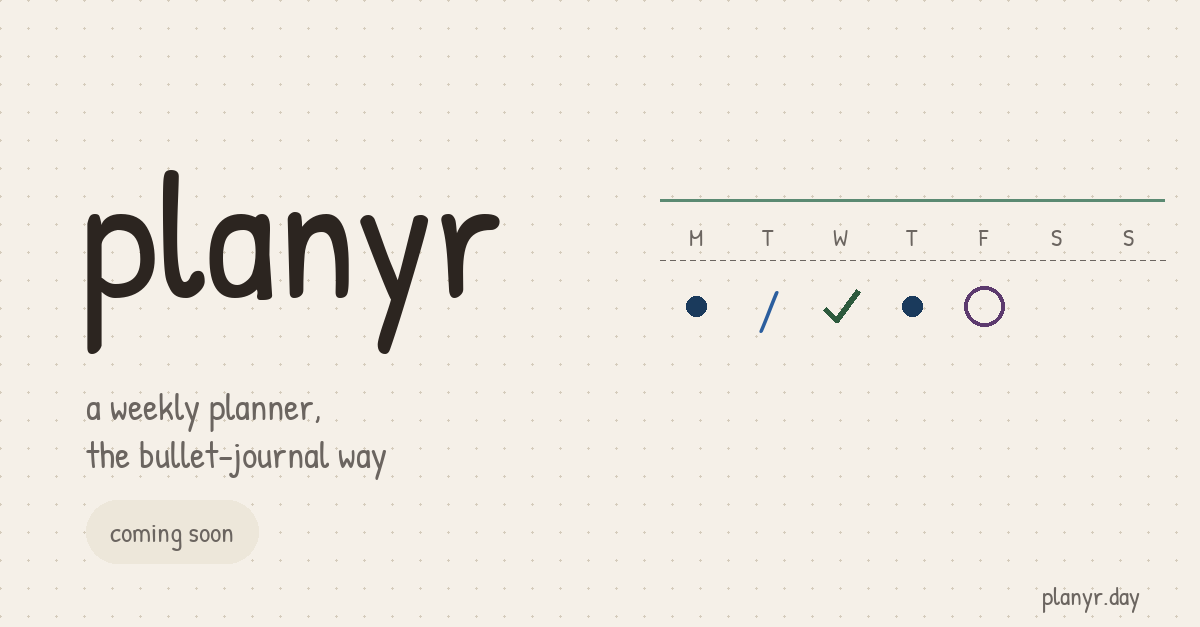
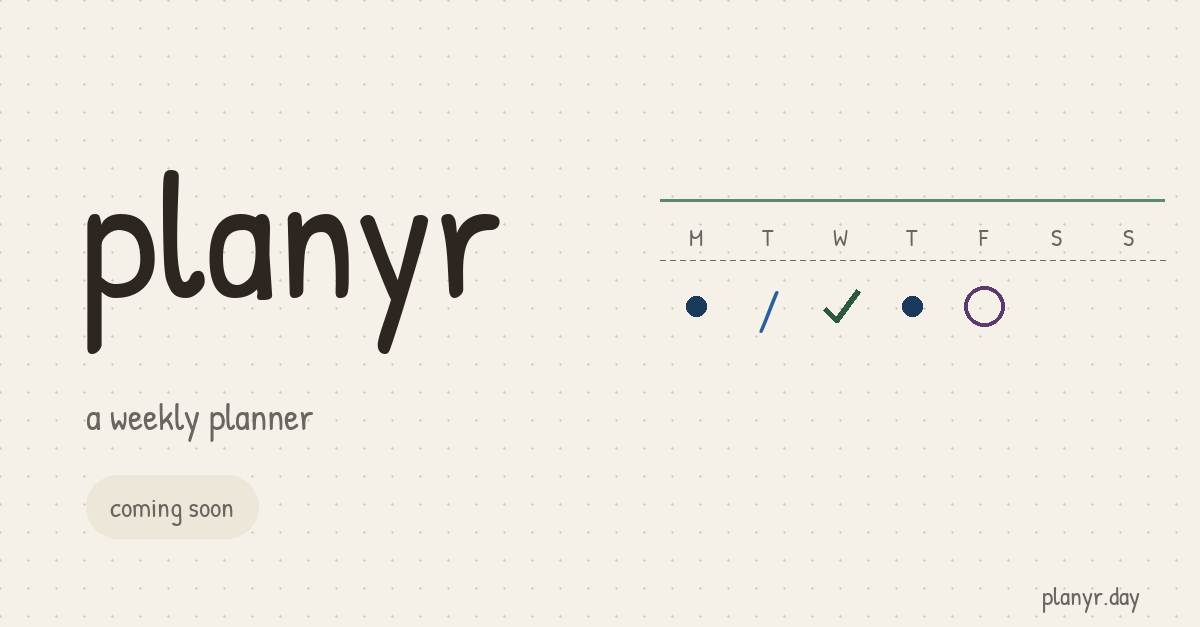
marketing: drop "bullet journal" from public-facing copy
"Bullet Journal" is a registered trademark (Ryder Carroll / Lefkowitz
Multimedia). Removing the phrase from every user-facing marketing
surface — landing page tagline, HTML meta, OG tags, og-image.png,
README.md — and pivoting to plain "a weekly planner" positioning.

Internal docs (CLAUDE.md, the-alastair-method.md research notes, code
comments) keep historical references as nominative/editorial use.

Also persists the OG-image generator at infra/landing/scripts/gen_og_image.py
so future tagline tweaks are reproducible.

Changed region(s): [[0.0617, 0.6364, 0.3392, 0.7576], [0.0925, 0.7879, 0.185, 0.8788]]

diff --git a/infra/landing/worker.js b/infra/landing/worker.js
@@ -5,24 +5,24 @@ const HTML = `<!DOCTYPE html>
 <head>
   <meta charset="UTF-8" />
   <meta name="viewport" content="width=device-width, initial-scale=1.0" />
-  <title>planyr — coming soon</title>
-  <meta name="description" content="A bullet-journal-inspired weekly planner. Coming soon." />
+  <title>planyr — a weekly planner</title>
+  <meta name="description" content="A simple weekly planner. Coming soon." />
 
   <!-- Open Graph / LinkedIn / Facebook -->
   <meta property="og:type" content="website" />
   <meta property="og:url" content="https://planyr.day" />
-  <meta property="og:title" content="planyr — a weekly planner, the bullet-journal way" />
-  <meta property="og:description" content="A matrix-based weekly planner inspired by bullet journals. Coming soon to iOS and Android." />
+  <meta property="og:title" content="planyr — a weekly planner" />
+  <meta property="og:description" content="A simple weekly planner for your phone. Coming soon to iOS and Android." />
   <meta property="og:image" content="https://planyr.day/og-image.png" />
   <meta property="og:image:width" content="1200" />
   <meta property="og:image:height" content="627" />
-  <meta property="og:image:alt" content="planyr — a weekly planner, the bullet-journal way. Coming soon." />
+  <meta property="og:image:alt" content="planyr — a weekly planner. Coming soon." />
   <meta property="og:site_name" content="planyr" />
 
   <!-- Twitter -->
   <meta name="twitter:card" content="summary_large_image" />
-  <meta name="twitter:title" content="planyr — a weekly planner, the bullet-journal way" />
-  <meta name="twitter:description" content="A matrix-based weekly planner inspired by bullet journals. Coming soon to iOS and Android." />
+  <meta name="twitter:title" content="planyr — a weekly planner" />
+  <meta name="twitter:description" content="A simple weekly planner for your phone. Coming soon to iOS and Android." />
   <meta name="twitter:image" content="https://planyr.day/og-image.png" />
 
   <link rel="preconnect" href="https://fonts.googleapis.com" />
@@ -121,7 +121,7 @@ const HTML = `<!DOCTYPE html>
 <body>
   <main class="card">
     <h1>planyr</h1>
-    <p class="tagline">a weekly planner, the bullet-journal way</p>
+    <p class="tagline">a weekly planner</p>
 
     <div class="grid" aria-hidden="true">
       <div class="day">M</div><div class="day">T</div><div class="day">W</div><div class="day">T</div><div class="day">F</div><div class="day">S</div><div class="day">S</div>

diff --git a/infra/landing/scripts/gen_og_image.py b/infra/landing/scripts/gen_og_image.py
@@ -1,0 +1,154 @@
+"""Generate the planyr.day LinkedIn preview image."""
+from io import BytesIO
+import requests
+from PIL import Image, ImageDraw, ImageFont
+
+# LinkedIn recommended: 1200x627 (1.91:1)
+W, H = 1200, 627
+
+# Bullet-journal palette (same as the site)
+PAPER = (245, 240, 232)   # #F5F0E8
+PAPER_DIM = (237, 231, 218)  # #EDE7DA
+INK = (44, 37, 32)         # #2C2520
+INK_SOFT = (107, 101, 96)  # #6B6560
+ACCENT = (91, 138, 114)    # #5B8A72
+DOT = (213, 204, 188)      # #D5CCBC
+
+# Marker colors (light theme)
+M_DOT = (26, 58, 92)       # navy
+M_SLASH = (43, 94, 158)    # blue
+M_X = (45, 90, 61)         # green
+M_EVENT = (92, 58, 110)    # purple
+
+
+def get_font(size: int, variant: str = "regular") -> ImageFont.FreeTypeFont:
+    # Download Patrick Hand TTF once per run
+    url = "https://github.com/google/fonts/raw/main/ofl/patrickhand/PatrickHand-Regular.ttf"
+    if not hasattr(get_font, "_bytes"):
+        r = requests.get(url, timeout=10)
+        r.raise_for_status()
+        get_font._bytes = r.content
+    return ImageFont.truetype(BytesIO(get_font._bytes), size)
+
+
+def draw_dot_grid(draw: ImageDraw.ImageDraw):
+    step = 28
+    for y in range(0, H, step):
+        for x in range(0, W, step):
+            draw.ellipse([x - 1, y - 1, x + 1, y + 1], fill=DOT)
+
+
+def draw_text(draw: ImageDraw.ImageDraw, xy, text, font, fill):
+    draw.text(xy, text, font=font, fill=fill)
+
+
+def text_width(draw: ImageDraw.ImageDraw, text: str, font) -> int:
+    bbox = draw.textbbox((0, 0), text, font=font)
+    return bbox[2] - bbox[0]
+
+
+def draw_pill(draw: ImageDraw.ImageDraw, xy, text, font, fill_bg, fill_text, pad=(20, 10)):
+    tw = text_width(draw, text, font)
+    _, _, _, th_bottom = draw.textbbox((0, 0), text, font=font)
+    ascent, descent = font.getmetrics()
+    th = ascent + descent
+    x, y = xy
+    rect = [x, y, x + tw + pad[0] * 2, y + th + pad[1] * 2]
+    draw.rounded_rectangle(rect, radius=(rect[3] - rect[1]) // 2, fill=fill_bg)
+    draw.text((x + pad[0], y + pad[1]), text, font=font, fill=fill_text)
+    return rect
+
+
+def draw_marker(draw: ImageDraw.ImageDraw, kind: str, color, cx: int, cy: int, size: int, slash_font):
+    """Draw one Alastair-method marker, centered at (cx, cy)."""
+    r = size // 2
+    if kind == "dot":
+        draw.ellipse([cx - 10, cy - 10, cx + 10, cy + 10], fill=color)
+    elif kind == "event":
+        draw.ellipse([cx - r, cy - r, cx + r, cy + r], outline=color, width=4)
+    elif kind == "check":
+        pts = [(cx - r + 4, cy + 2), (cx - 4, cy + r - 6), (cx + r - 2, cy - r + 4)]
+        draw.line(pts, fill=color, width=6, joint="curve")
+    elif kind == "slash":
+        # slash uses the font so it looks handwritten
+        tw = text_width(draw, "/", slash_font)
+        ascent, _ = slash_font.getmetrics()
+        draw.text((cx - tw // 2, cy - ascent // 2 - 4), "/", font=slash_font, fill=color)
+
+
+def draw_grid(draw: ImageDraw.ImageDraw, origin, cell=72):
+    """Draw a 7-column weekly grid with markers."""
+    ox, oy = origin
+    days = ["M", "T", "W", "T", "F", "S", "S"]
+    header_font = get_font(24)
+    slash_font = get_font(54)
+
+    # Column headers
+    for i, d in enumerate(days):
+        cx = ox + i * cell + cell // 2
+        tw = text_width(draw, d, header_font)
+        draw.text((cx - tw // 2, oy), d, font=header_font, fill=INK_SOFT)
+
+    # Dashed separator under headers
+    sep_y = oy + 40
+    for x in range(ox, ox + cell * 7, 10):
+        draw.line([(x, sep_y), (x + 5, sep_y)], fill=INK_SOFT, width=1)
+
+    # Markers: dot, slash, check, dot, event, empty, empty
+    row = [
+        ("dot", M_DOT),
+        ("slash", M_SLASH),
+        ("check", M_X),
+        ("dot", M_DOT),
+        ("event", M_EVENT),
+        (None, None),
+        (None, None),
+    ]
+    cell_y = sep_y + 10
+    for i, (kind, color) in enumerate(row):
+        if kind is None:
+            continue
+        cx = ox + i * cell + cell // 2
+        cy = cell_y + cell // 2
+        draw_marker(draw, kind, color, cx, cy, size=40, slash_font=slash_font)
+
+
+def main():
+    img = Image.new("RGB", (W, H), PAPER)
+    draw = ImageDraw.Draw(img)
+
+    draw_dot_grid(draw)
+
+    # Left column: title + tagline + badge
+    title_font = get_font(180)
+    tagline_font = get_font(38)
+    badge_font = get_font(28)
+
+    left_x = 80
+    draw.text((left_x, 110), "planyr", font=title_font, fill=INK)
+
+    tagline = "a weekly planner"
+    draw.text((left_x + 6, 390), tagline, font=tagline_font, fill=INK_SOFT)
+
+    draw_pill(draw, (left_x + 6, 475), "coming soon", badge_font,
+              PAPER_DIM, INK_SOFT, pad=(24, 12))
+
+    # Right column: weekly grid teaser
+    draw_grid(draw, origin=(660, 220), cell=72)
+
+    # Subtle accent line
+    draw.line([(660, 200), (660 + 72 * 7, 200)], fill=ACCENT, width=3)
+
+    # Domain footer
+    footer_font = get_font(26)
+    footer = "planyr.day"
+    tw = text_width(draw, footer, footer_font)
+    draw.text((W - tw - 60, H - 50), footer, font=footer_font, fill=INK_SOFT)
+
+    out = "/Users/alastairdrong/wip/AlPHA/infra/landing/og-image.png"
+    img.save(out, "PNG", optimize=True)
+    print(f"wrote {out}")
+
+
+if __name__ == "__main__":
+    main()

diff --git a/README.md b/README.md
@@ -1,13 +1,13 @@
 # AlPHA — Alastair Planner & Habit App
 
-A cross-platform productivity app implementing **The Alastair Method** — a matrix-based task management system inspired by the bullet journal technique.
+A cross-platform weekly planner app. See your whole week at a glance, mark each day, migrate what you don't finish.
 
 Built with Flutter (macOS, iOS, Android, Web). Currently offline-first with local Drift/SQLite storage.
 
 ## Features
 
 - **Weekly board grid** — day columns (M T W T F S S) on the left, task names on the right, migration column (>) on the far left
-- **Hand-drawn markers** — dot (filled circle), slash (/), checkmark (painted stroke), event (open circle) — all rendered with custom painters for a journal aesthetic
+- **Hand-drawn markers** — dot (filled circle), slash (/), checkmark (painted stroke), event (open circle) — all rendered with custom painters for a handwritten aesthetic
 - **Radial marker menu** — tap to cycle or pick from a radial popup (dot, slash, done, clear)
 - **Auto-fill logic** — done early (<) fills remaining scheduled days; missed days auto-migrate (>)
 - **Migration** — toggle > to push a task to next week, carrying its day-of-week schedule as dots
@@ -23,7 +23,7 @@ Built with Flutter (macOS, iOS, Android, Web). Currently offline-first with loca
 - **Yearly overview** — 12 mini-month heatmap grids with day numbers and red→green completion gradient
 - **Preferences** — font (handwritten/system), appearance (light/dark/system), first day of week (Monday/Sunday), tag management
 - **Data export** — JSON export of all boards, tasks, markers, notes, and tags
-- **Bullet journal theme** — Patrick Hand font, cream paper palette, ink-on-paper aesthetics
+- **Handwritten aesthetic** — Patrick Hand font, cream paper palette, ink-on-paper look
 - **Dark mode** — theme-aware marker colors and design tokens
 
 ## Quick Start
